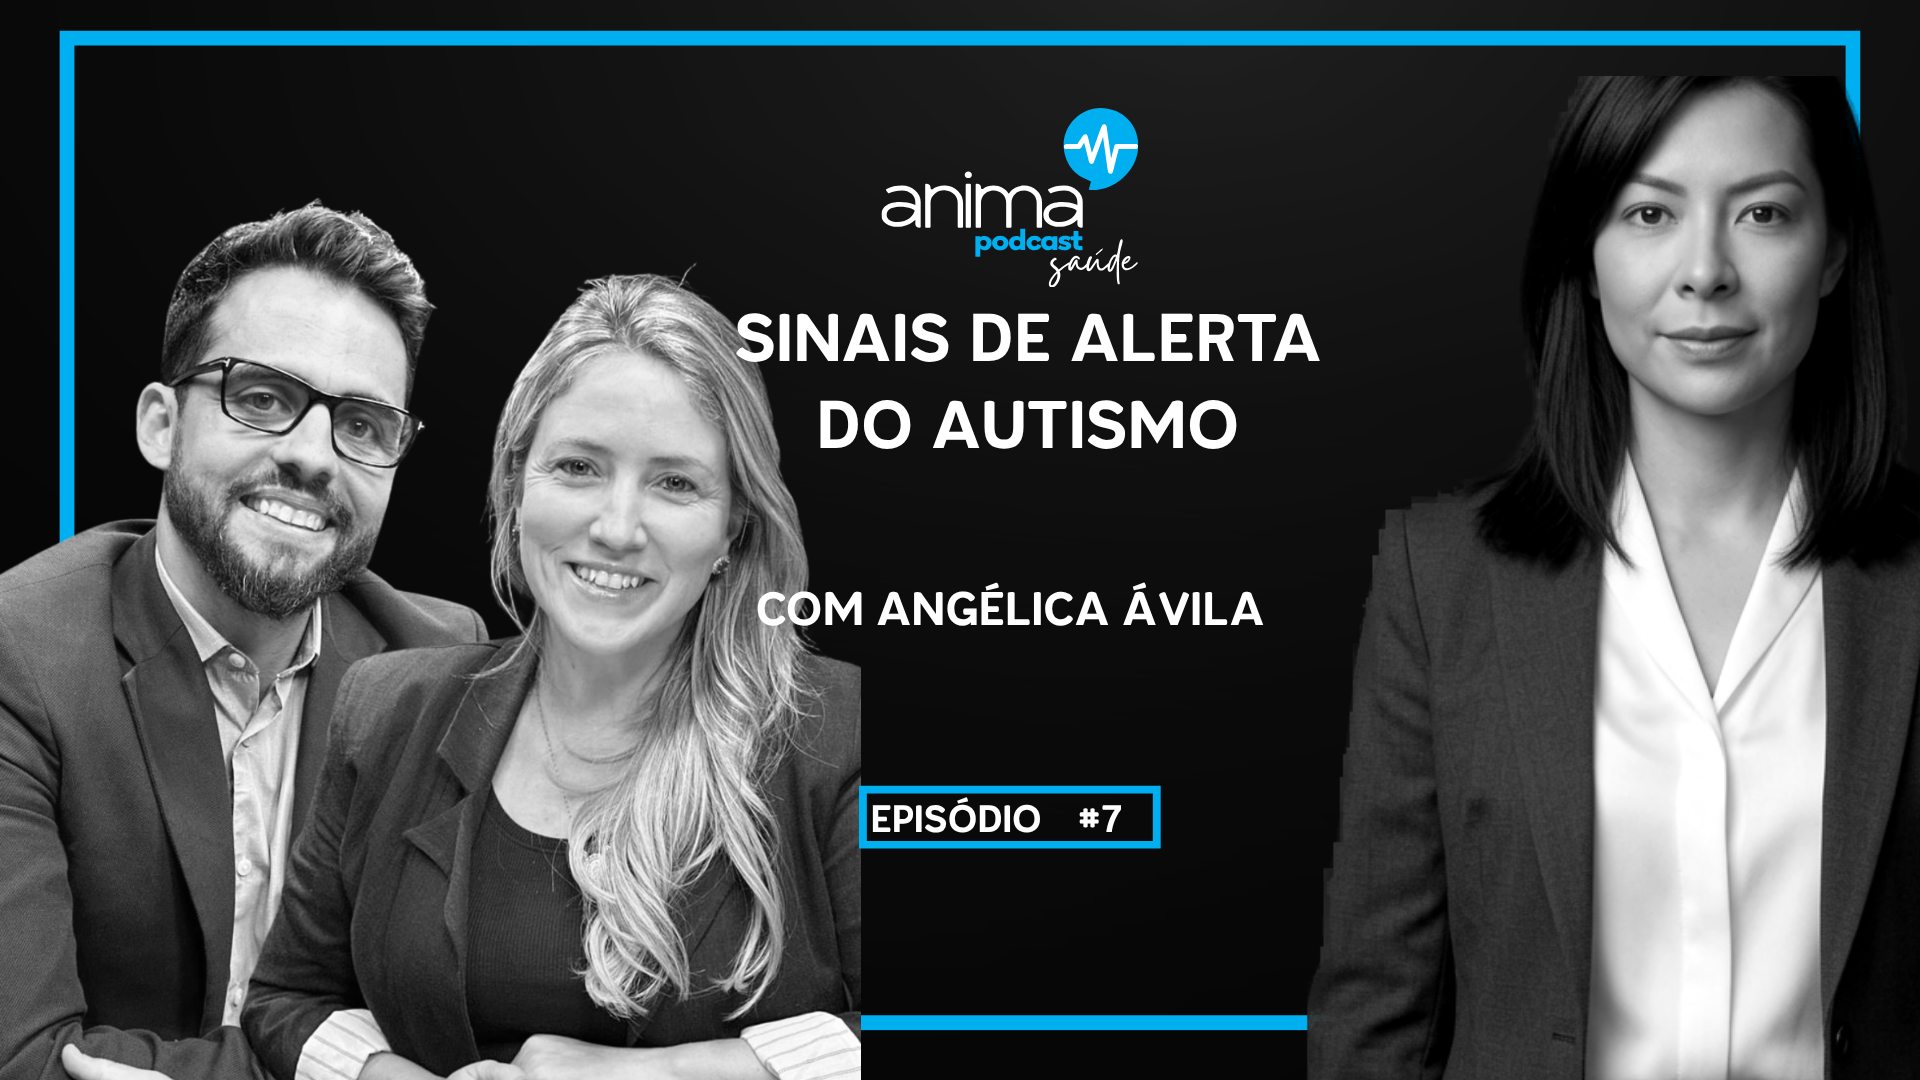
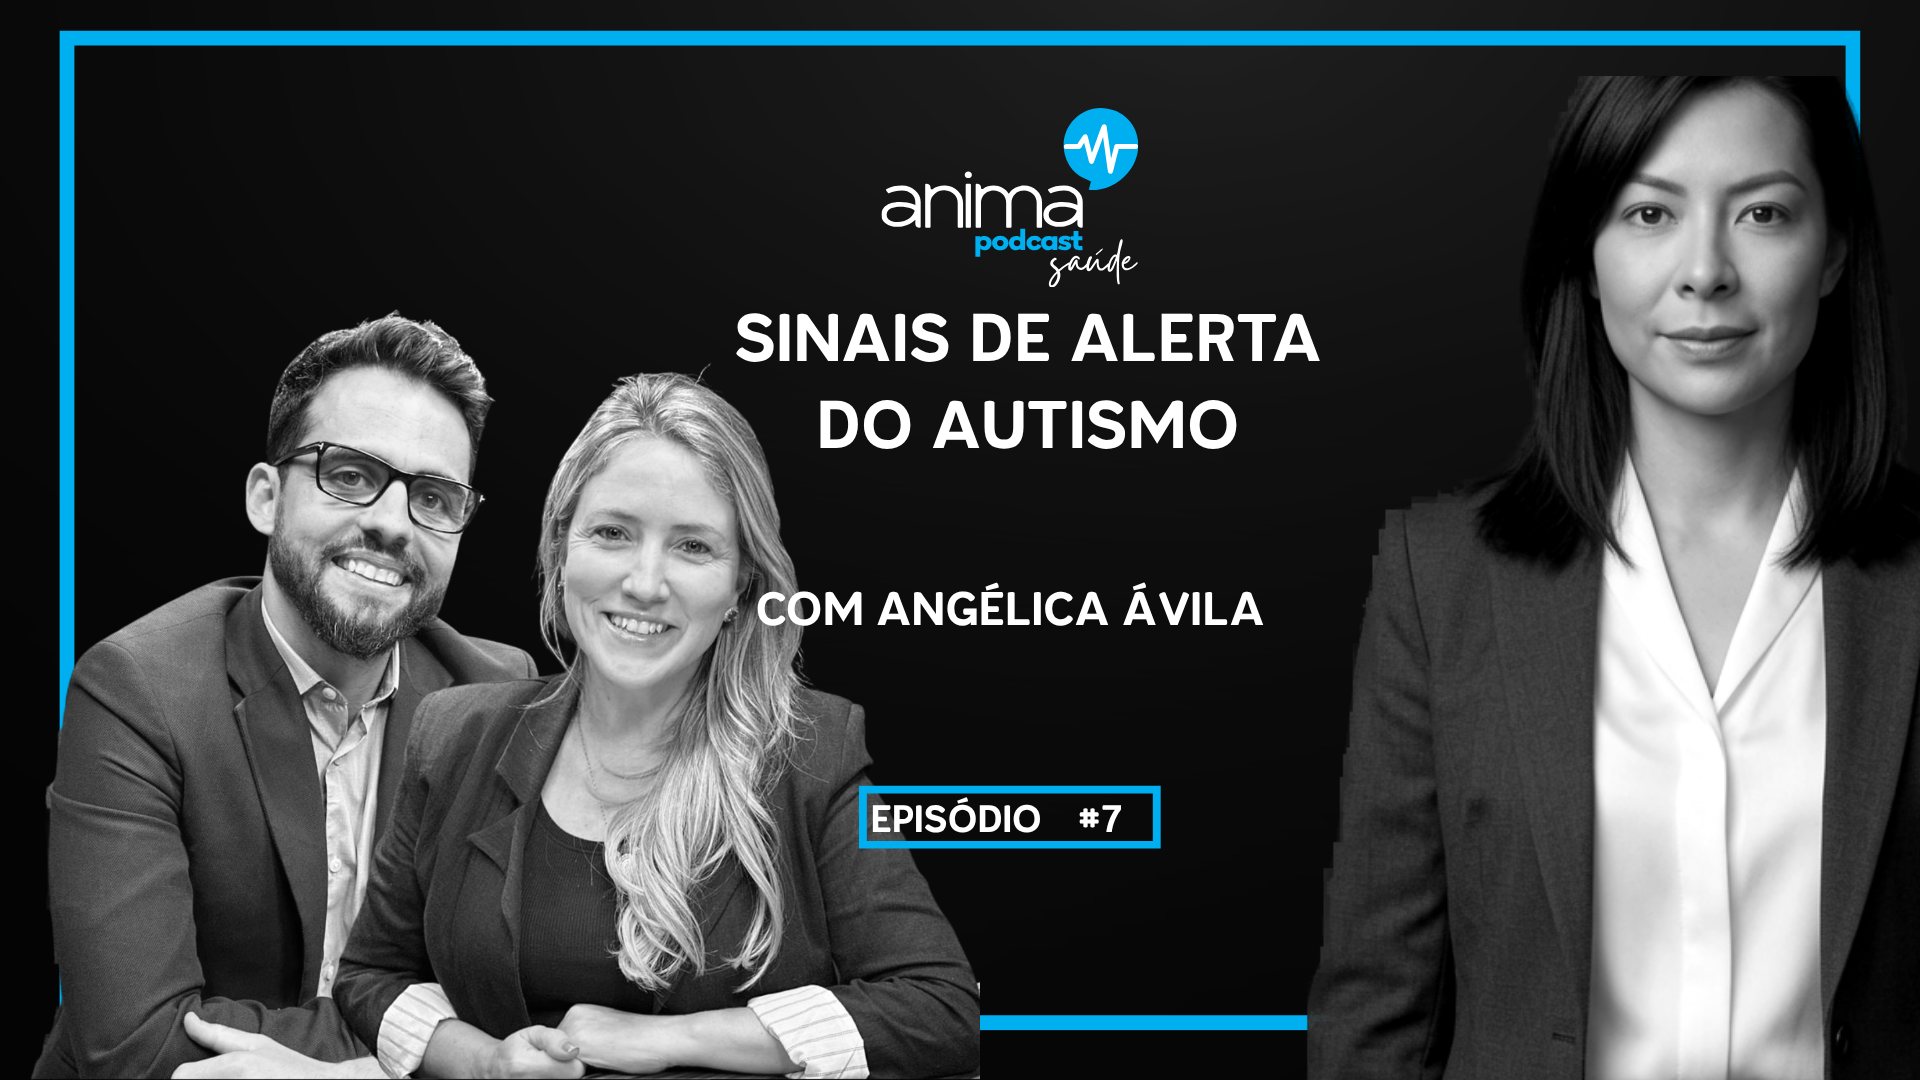
Saude: casal inteiro (sem cortar braco) nos 5 de aprovacao

Changed region(s): [[0.0, 0.1833, 0.5312, 1.0]]

diff --git a/review/saude/index.html b/review/saude/index.html
@@ -14,9 +14,9 @@ figcaption b{color:var(--acc)}figcaption span{color:var(--muted);font-size:12px}
 <header><h1>Anima <span>Saúde</span> — casal de apresentadores (5 para aprovação)</h1>
 <p>Novo casal do Anima Saúde inserido à esquerda (na frente da borda azul, atrás do texto), no mesmo padrão dos demais. Cópia de trabalho DAHT5dd2JhQ; o design original DAHRWqXOUCY foi preservado. Se aprovar, aplico aos 32 episódios do Saúde.</p></header>
 <main>
-<figure><img src="e5.png?v=1" alt="#5"><figcaption><b>#5</b><br><span>Cólicas e refluxos do bebê — com José Eduardo</span></figcaption></figure>
-<figure><img src="e7.png?v=1" alt="#7"><figcaption><b>#7</b><br><span>Sinais de alerta do autismo — com Angélica Ávila</span></figcaption></figure>
-<figure><img src="e8.png?v=1" alt="#8"><figcaption><b>#8</b><br><span>Por que estamos tão ansiosos? — com Bruno Lamoglia</span></figcaption></figure>
-<figure><img src="e9.png?v=1" alt="#9"><figcaption><b>#9</b><br><span>Medicina com propósito — com Gil Gabriel</span></figcaption></figure>
-<figure><img src="e10.png?v=1" alt="#10"><figcaption><b>#10</b><br><span>Como aliviar dores crônicas — com Leonardo Avila</span></figcaption></figure>
+<figure><img src="e5.png?v=2" alt="#5"><figcaption><b>#5</b><br><span>Cólicas e refluxos do bebê — com José Eduardo</span></figcaption></figure>
+<figure><img src="e7.png?v=2" alt="#7"><figcaption><b>#7</b><br><span>Sinais de alerta do autismo — com Angélica Ávila</span></figcaption></figure>
+<figure><img src="e8.png?v=2" alt="#8"><figcaption><b>#8</b><br><span>Por que estamos tão ansiosos? — com Bruno Lamoglia</span></figcaption></figure>
+<figure><img src="e9.png?v=2" alt="#9"><figcaption><b>#9</b><br><span>Medicina com propósito — com Gil Gabriel</span></figcaption></figure>
+<figure><img src="e10.png?v=2" alt="#10"><figcaption><b>#10</b><br><span>Como aliviar dores crônicas — com Leonardo Avila</span></figcaption></figure>
 </main>
